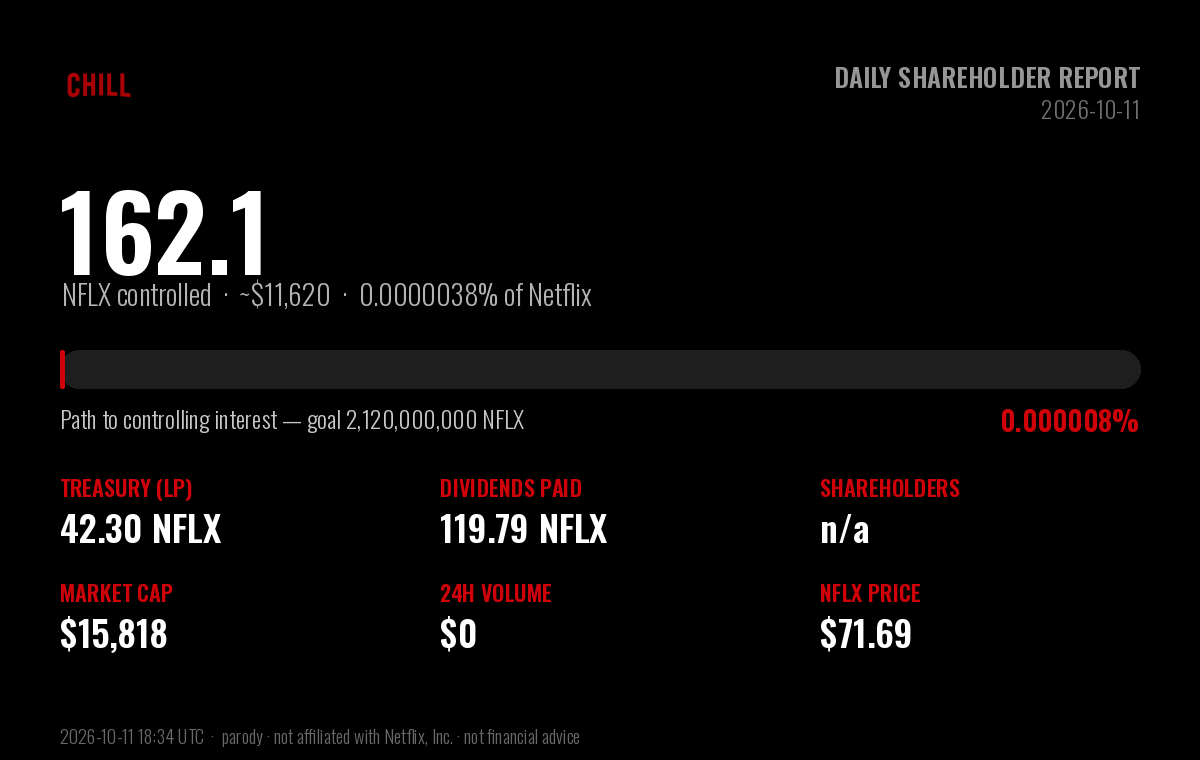
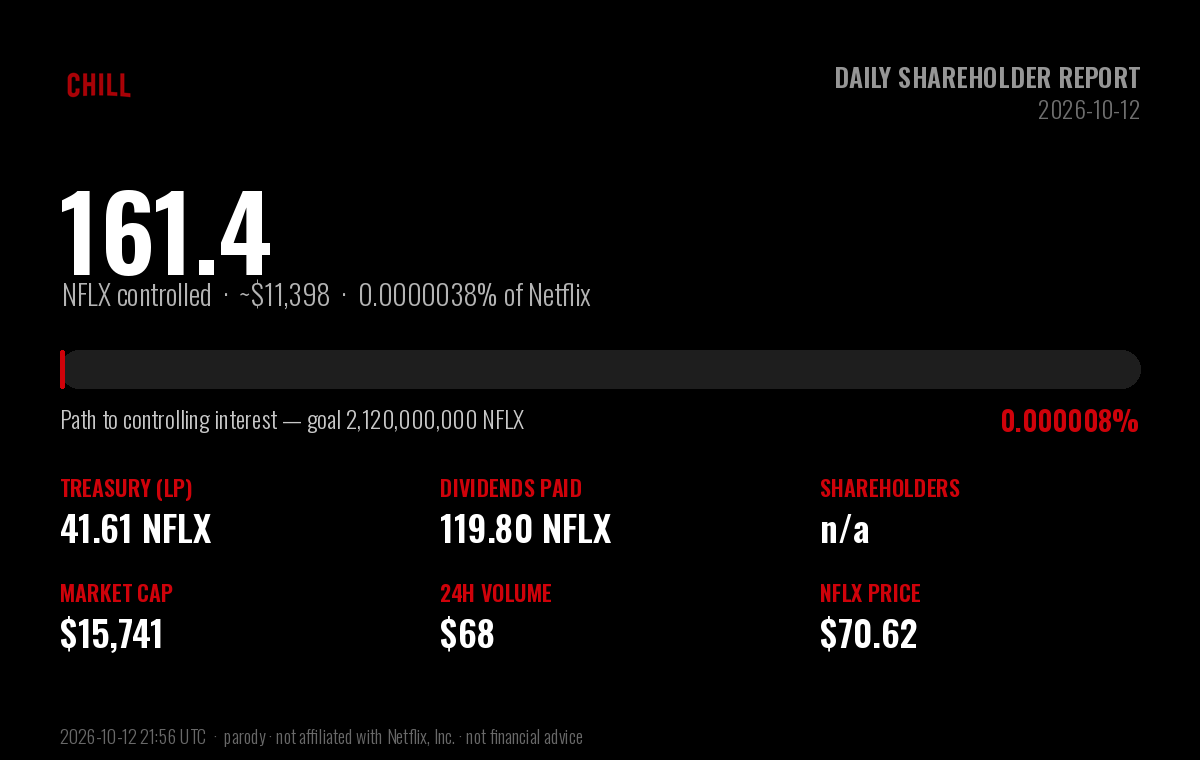
chore: daily $CHILL shareholder report (2026-10-12)

diff --git a/daily-holder-report/README.md b/daily-holder-report/README.md
@@ -1,6 +1,6 @@
 # $CHILL — Daily Shareholder Report
 
-### Netflix and Chill · Report to Shareholders · 2026-10-11
+### Netflix and Chill · Report to Shareholders · 2026-10-12
 
 > **Corporate objective:** acquire a controlling interest in Netflix (NFLX).
 > Netflix has **4,220,000,000** shares outstanding; a majority
@@ -13,28 +13,28 @@
 
 | Metric | Value |
 |---|---|
-| **NFLX under $CHILL control** | **162.08 NFLX** (~$11,620) |
-| Stake in Netflix | 0.000003841% of shares outstanding |
+| **NFLX under $CHILL control** | **161.41 NFLX** (~$11,398) |
+| Stake in Netflix | 0.000003825% of shares outstanding |
 | Progress to controlling interest | 0.0000076% of 2,120,000,000 |
-| Shares remaining to majority | 2,119,999,838 NFLX |
+| Shares remaining to majority | 2,119,999,839 NFLX |
 
 ## Balance sheet — NFLX holdings
 
 | Holding | NFLX | USD |
 |---|---|---|
-| Treasury (protocol-owned liquidity) | 42.30 | $3,032 |
-| Dividends distributed to shareholders | 119.79 | $8,587 |
-| **Total NFLX controlled** | **162.08** | **$11,620** |
+| Treasury (protocol-owned liquidity) | 41.61 | $2,938 |
+| Dividends distributed to shareholders | 119.80 | $8,460 |
+| **Total NFLX controlled** | **161.41** | **$11,398** |
 
 ## Last 24 hours
 
 | Metric | Value |
 |---|---|
-| Trading volume | 0.00 NFLX (~$0) |
-| Net NFLX accumulated | 0.00 NFLX |
-| Dividends generated | 0.0000 NFLX |
-| Transactions | 0 (0 buys / 0 sells) |
-| $CHILL price change | +3.4% |
+| Trading volume | 0.96 NFLX (~$68) |
+| Net NFLX accumulated | -0.83 NFLX |
+| Dividends generated | 0.0096 NFLX |
+| Transactions | 2 (1 buys / 1 sells) |
+| $CHILL price change | -2.0% |
 
 ## Shareholder & market data
 
@@ -43,23 +43,23 @@
 | Shareholders of record | n/a |
 | Lifetime unique participants | 1819 |
 | Shares outstanding ($CHILL) | 1,000,000,000 |
-| Market capitalization | $15,818 |
-| $CHILL price | $0.00001582 |
-| NFLX price | $71.69 |
-| Lifetime volume | 11,978.63 NFLX (~$858,724) |
-| Lifetime transactions | 8,609 (4,813 buys / 3,796 sells) |
-| Days since IPO (launch) | 84 |
+| Market capitalization | $15,741 |
+| $CHILL price | $0.00001574 |
+| NFLX price | $70.62 |
+| Lifetime volume | 11,979.73 NFLX (~$845,968) |
+| Lifetime transactions | 8,612 (4,815 buys / 3,797 sells) |
+| Days since IPO (launch) | 85 |
 
 ## Per-share metrics
 
 | Metric | Value |
 |---|---|
-| NFLX backing per 1M $CHILL | 0.162084 NFLX |
-| Dividends per 1M $CHILL | 0.119786 NFLX |
+| NFLX backing per 1M $CHILL | 0.161409 NFLX |
+| Dividends per 1M $CHILL | 0.119797 NFLX |
 
 ---
 
-*Report generated 2026-10-11 18:34 UTC · block 86,046,874 · data via the Sentry-Robinhood
+*Report generated 2026-10-12 21:56 UTC · block 87,006,323 · data via the Sentry-Robinhood
 subgraph and Robinhood Chain explorer.*
 
 **Disclaimer:** $CHILL is an independent, community-driven **parody** token. It is
